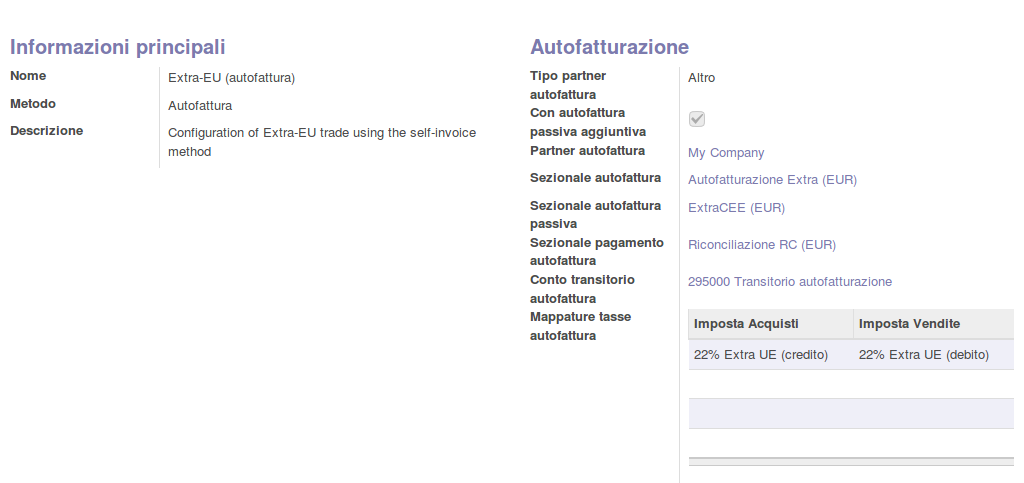
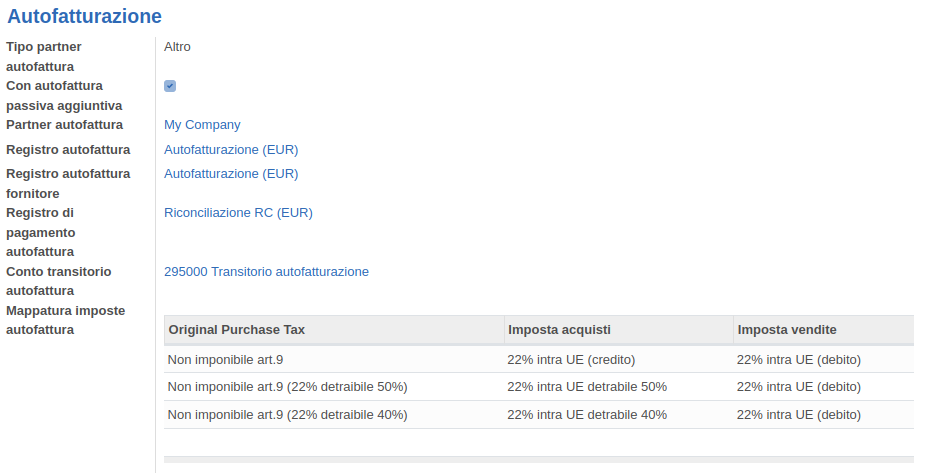
IMP l10n_it_reverse_charge adding original_purchase_tax_id to allow mapping of 3 documents: original supplier invoice (intra/extra), supplier self invoice, customer self invoice

diff --git a/l10n_it_reverse_charge/models/account_invoice.py b/l10n_it_reverse_charge/models/account_invoice.py
@@ -390,9 +390,6 @@ class AccountInvoice(models.Model):
 
     def generate_supplier_self_invoice(self):
         rc_type = self.fiscal_position_id.rc_type_id
-        if not len(rc_type.tax_ids) == 1:
-            raise UserError(_(
-                "Can't find 1 tax mapping for %s" % rc_type.name))
         if not self.rc_self_purchase_invoice_id:
             supplier_invoice = self.copy()
         else:
@@ -410,8 +407,19 @@ class AccountInvoice(models.Model):
         supplier_invoice.partner_id = rc_type.partner_id.id
         supplier_invoice.journal_id = rc_type.supplier_journal_id.id
         for inv_line in supplier_invoice.invoice_line_ids:
-            inv_line.invoice_line_tax_ids = [
-                (6, 0, [rc_type.tax_ids[0].purchase_tax_id.id])]
+            line_tax_ids = inv_line.invoice_line_tax_ids
+            tax_ids = list()
+            for tax_mapping in rc_type.tax_ids:
+                for line_tax_id in line_tax_ids:
+                    if tax_mapping.original_purchase_tax_id == line_tax_id:
+                        tax_ids.append(tax_mapping.purchase_tax_id.id)
+            if not tax_ids:
+                raise UserError(_("Tax code used is not a RC tax.\nCan't "
+                                  "find tax mapping"))
+            if line_tax_ids:
+                inv_line.invoice_line_tax_ids = [
+                    (6, False, tax_ids)]
+
             inv_line.account_id = rc_type.transitory_account_id.id
         self.rc_self_purchase_invoice_id = supplier_invoice.id
 

diff --git a/l10n_it_reverse_charge/models/account_rc_type.py b/l10n_it_reverse_charge/models/account_rc_type.py
@@ -3,8 +3,7 @@
 # Copyright 2017 Lorenzo Battistini - Agile Business Group
 # Copyright 2017 Marco Calcagni - Dinamiche Aziendali srl
 
-from odoo import fields, models, _, api
-from odoo.exceptions import ValidationError
+from odoo import fields, models
 
 
 class AccountRCTypeTax(models.Model):
@@ -16,6 +15,10 @@ class AccountRCTypeTax(models.Model):
         string='RC type',
         required=True,
         ondelete='cascade')
+    original_purchase_tax_id = fields.Many2one(
+        'account.tax',
+        string='Original Purchase Tax',
+        required=False)
     purchase_tax_id = fields.Many2one(
         'account.tax',
         string='Purchase Tax',
@@ -85,14 +88,3 @@ class AccountRCType(models.Model):
     company_id = fields.Many2one(
         'res.company', string='Company', required=True,
         default=lambda self: self.env.user.company_id)
-
-    @api.multi
-    @api.constrains('with_supplier_self_invoice', 'tax_ids')
-    def _check_tax_ids(self):
-        for rctype in self:
-            if rctype.with_supplier_self_invoice and len(rctype.tax_ids) > 1:
-                raise ValidationError(_(
-                    'When "With additional supplier self invoice" you must set'
-                    ' only one tax mapping line: only 1 tax per invoice is '
-                    'supported'
-                ))

diff --git a/l10n_it_reverse_charge/tests/test_rc.py b/l10n_it_reverse_charge/tests/test_rc.py
@@ -207,7 +207,7 @@ class TestReverseCharge(ReverseChargeCommon):
             'invoice_id': invoice.id,
             'product_id': self.sample_product.id,
             'price_unit': 100,
-            'invoice_line_tax_ids': [(4, self.tax_22ai.id, 0)]}
+            'invoice_line_tax_ids': [(4, self.tax_0_pur.id, 0)]}
         invoice_line = self.invoice_line_model.create(invoice_line_vals)
         invoice_line.onchange_invoice_line_tax_id()
         invoice.compute_taxes()

diff --git a/l10n_it_reverse_charge/tests/rc_common.py b/l10n_it_reverse_charge/tests/rc_common.py
@@ -179,6 +179,7 @@ class ReverseChargeCommon(TransactionCase):
 
         self.rc_type_tax_eeu = rc_type_tax_model.create({
             'rc_type_id': self.rc_type_eeu.id,
+            'original_purchase_tax_id': self.tax_0_pur.id,
             'purchase_tax_id': self.tax_22ae.id,
             'sale_tax_id': self.tax_22ve.id
         })
